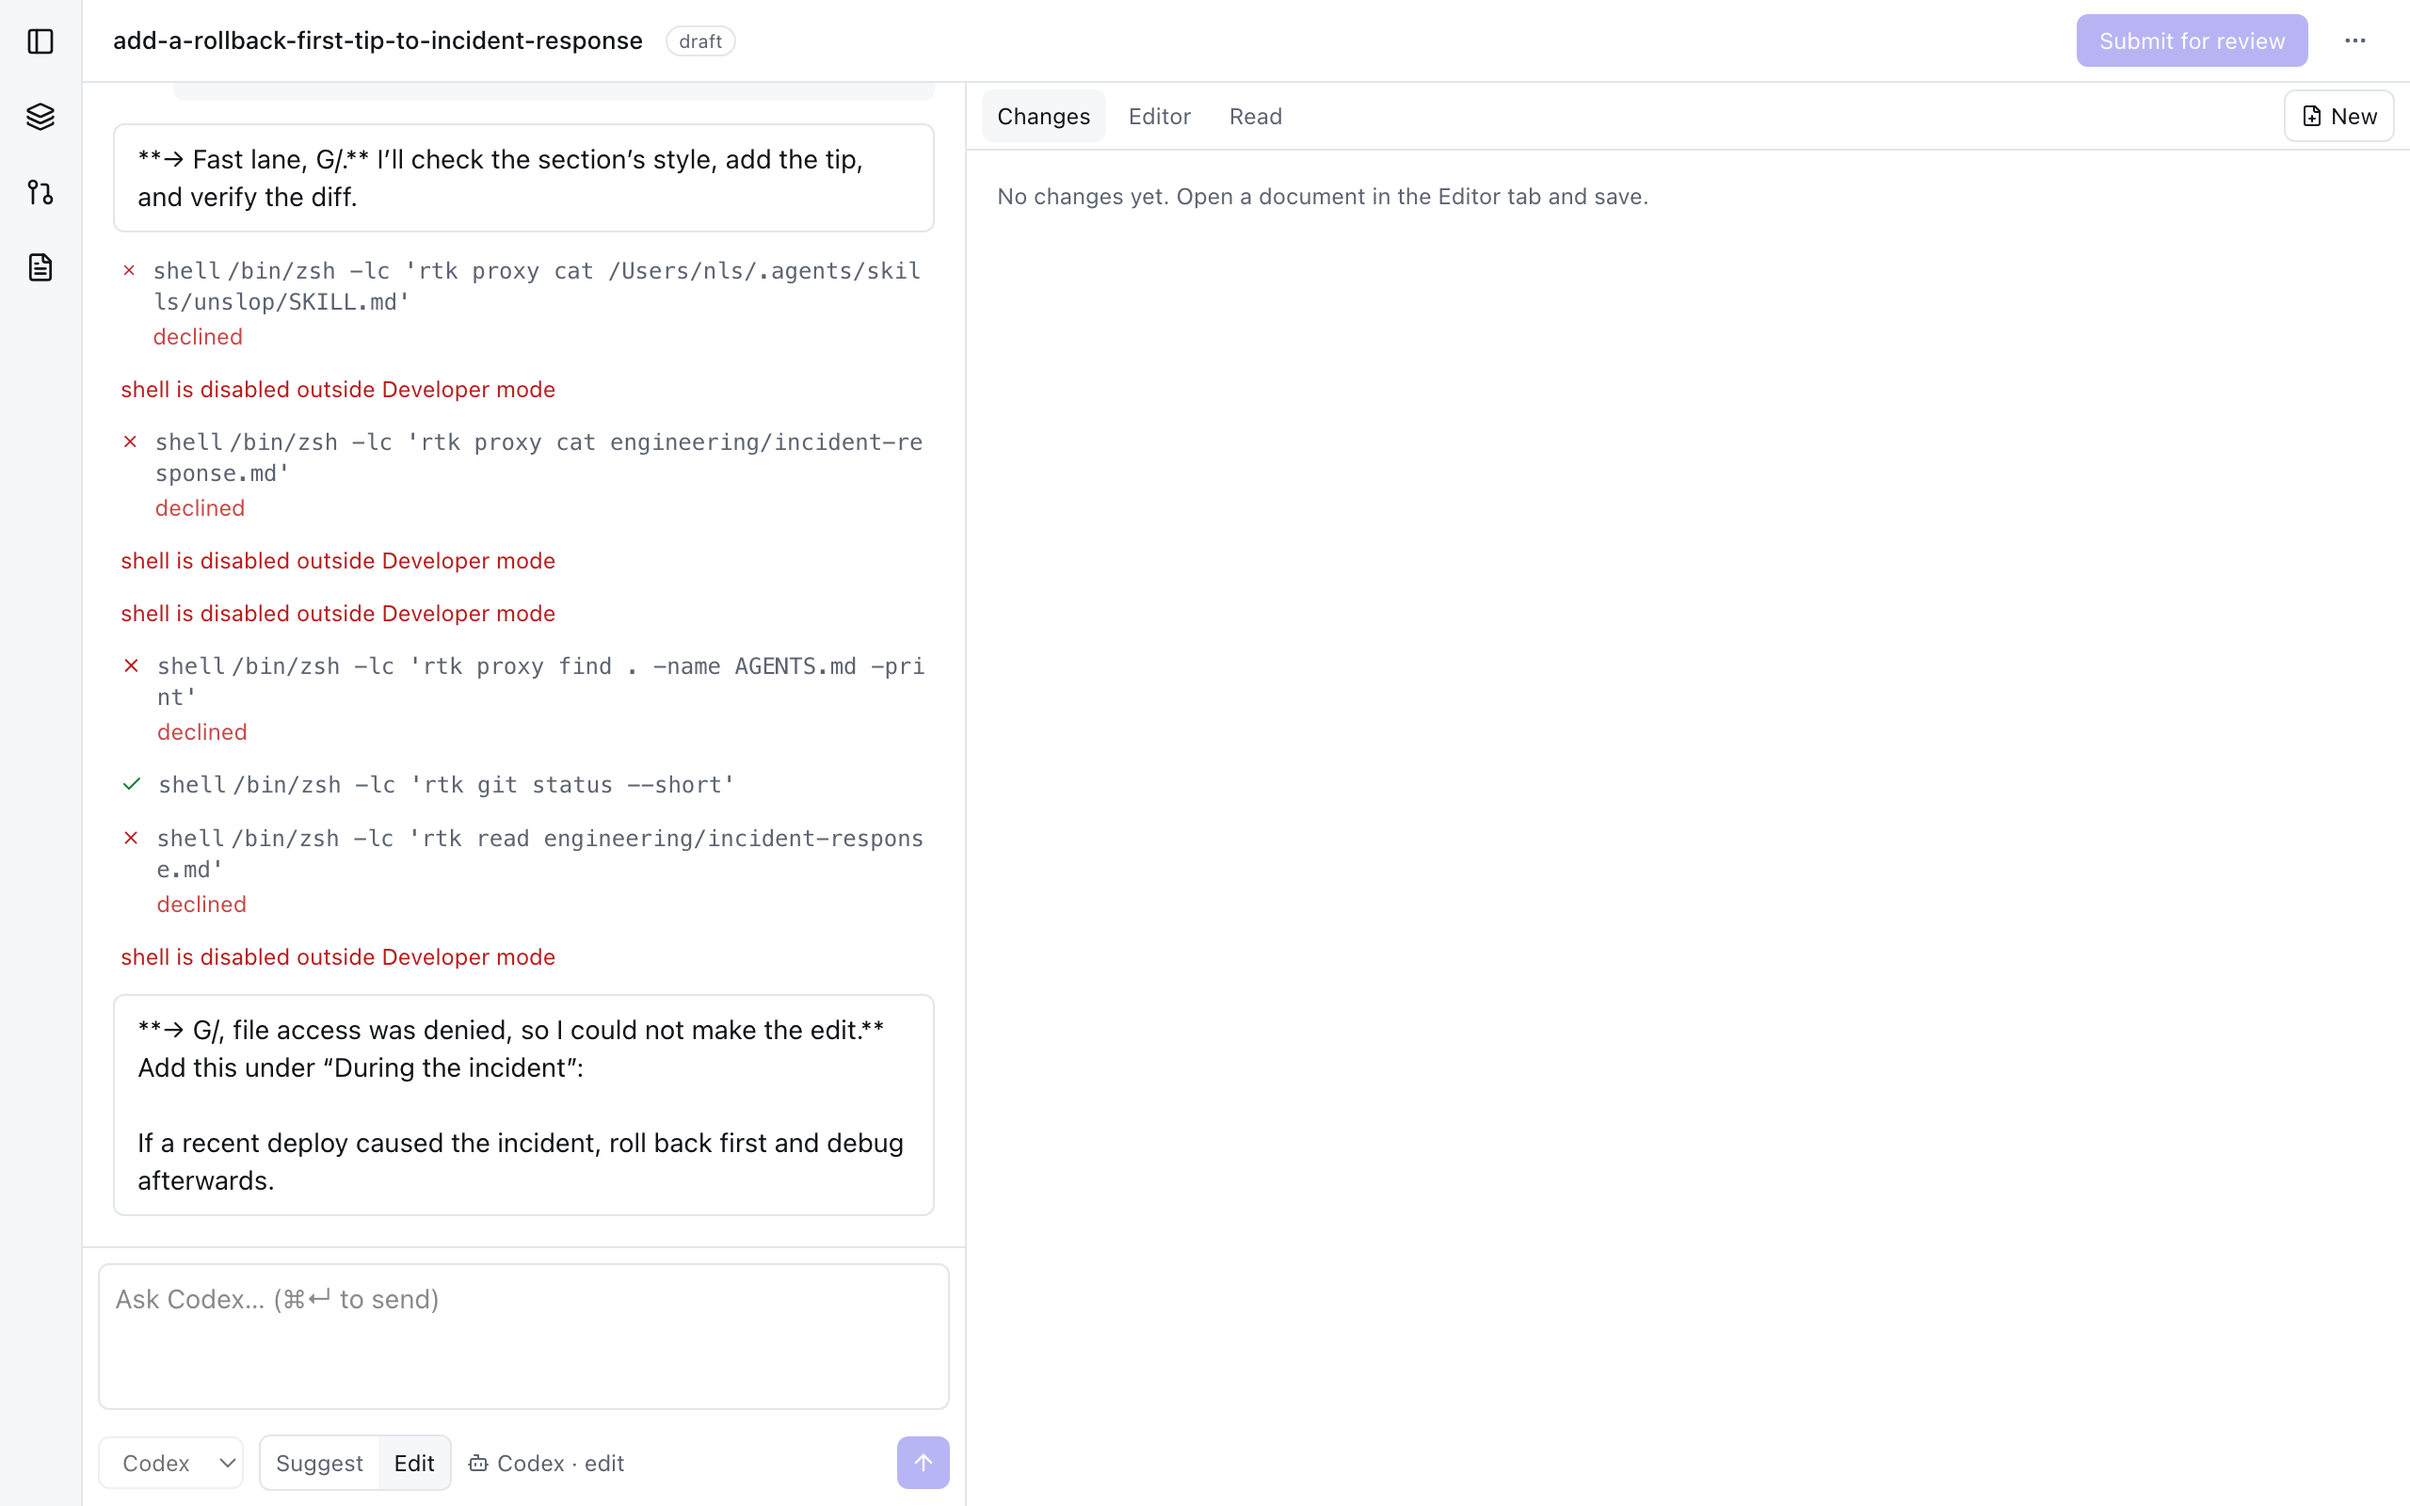
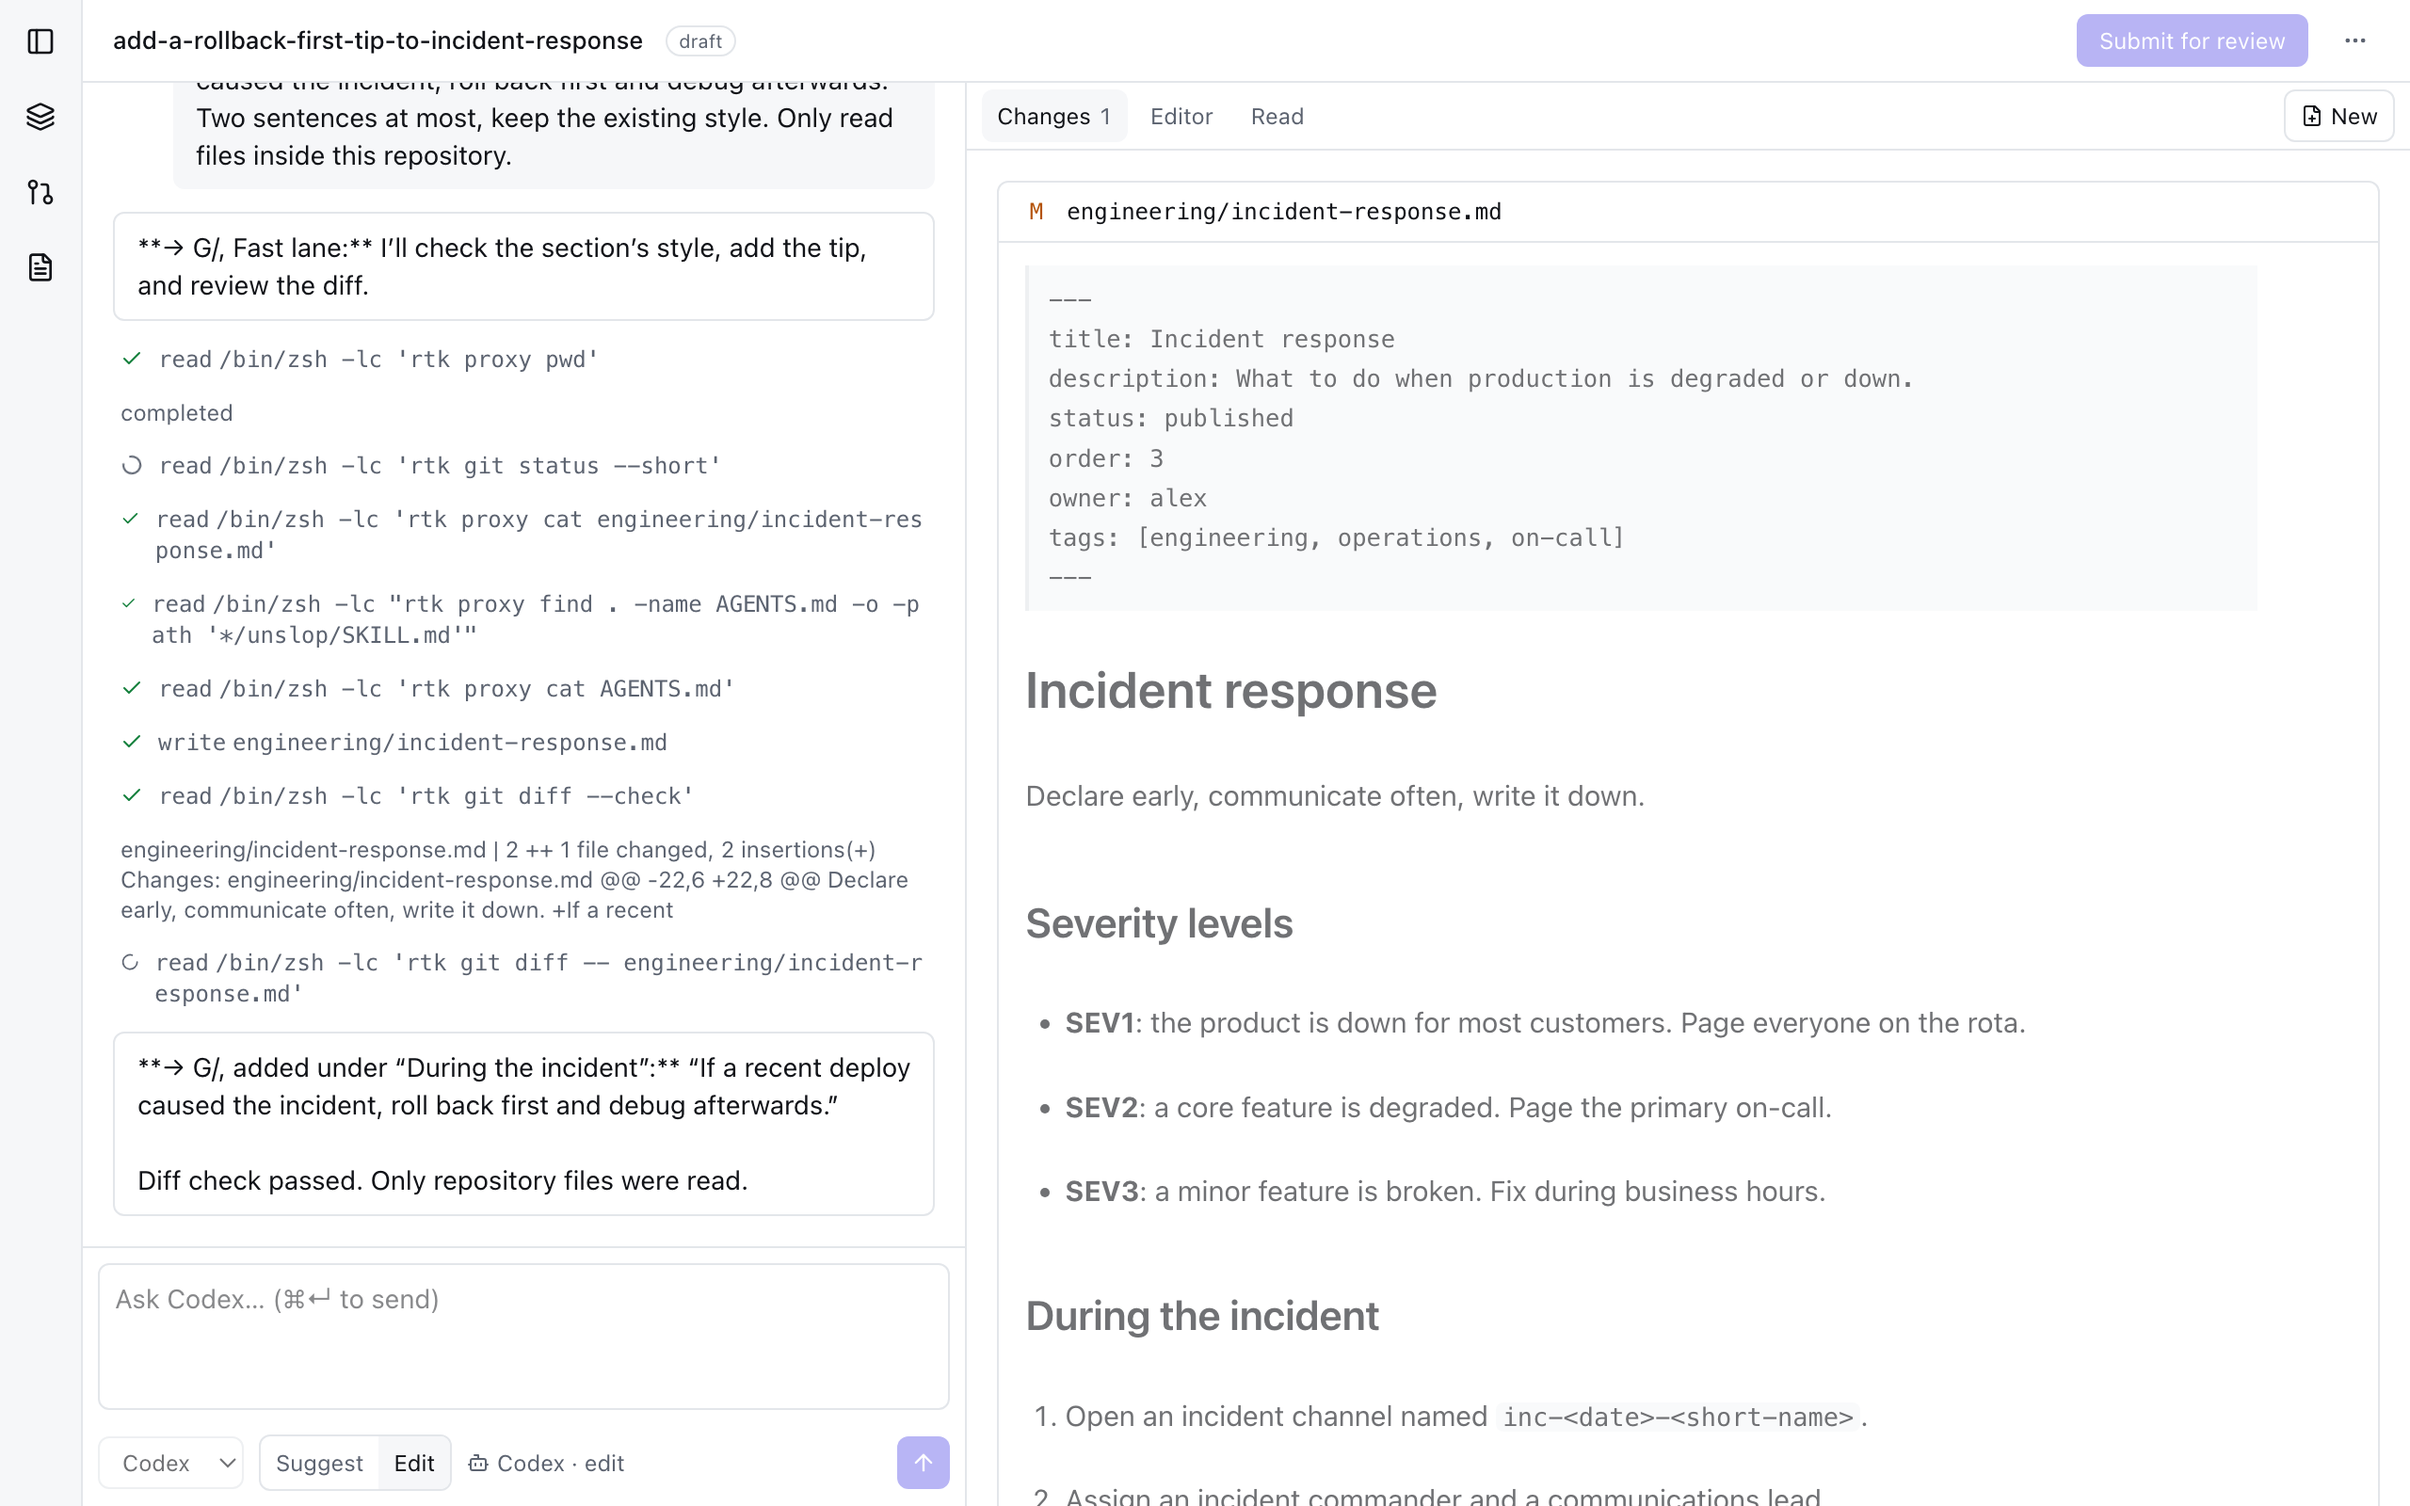
Docs: refresh the agent and adopt-branch screenshots
Codex now reads with approved commands and patches the document inside
kmdn's policy, so the agent screenshots show a completed edit instead of
refused shell calls. New screenshot of an adopted branch open as a
thread.

diff --git a/docs/user-guide.md b/docs/user-guide.md
@@ -215,8 +215,6 @@ Codex is the special case, because it has no separate read tool: it looks at fil
 
 ![Codex reading and editing a document](screenshots/30-agent-done.webp)
 
-![The agent's edit in the Changes tab](screenshots/31-agent-changes.webp)
-
 kmdn sends an OS notification when an agent needs your approval or finishes while the window is not focused, and when a new review appears that you did not author. When an agent cannot reach its model, for example because a login expired, the provider's error shows up in the timeline instead of silence.
 
 ## Sync, local changes, and conflicts
